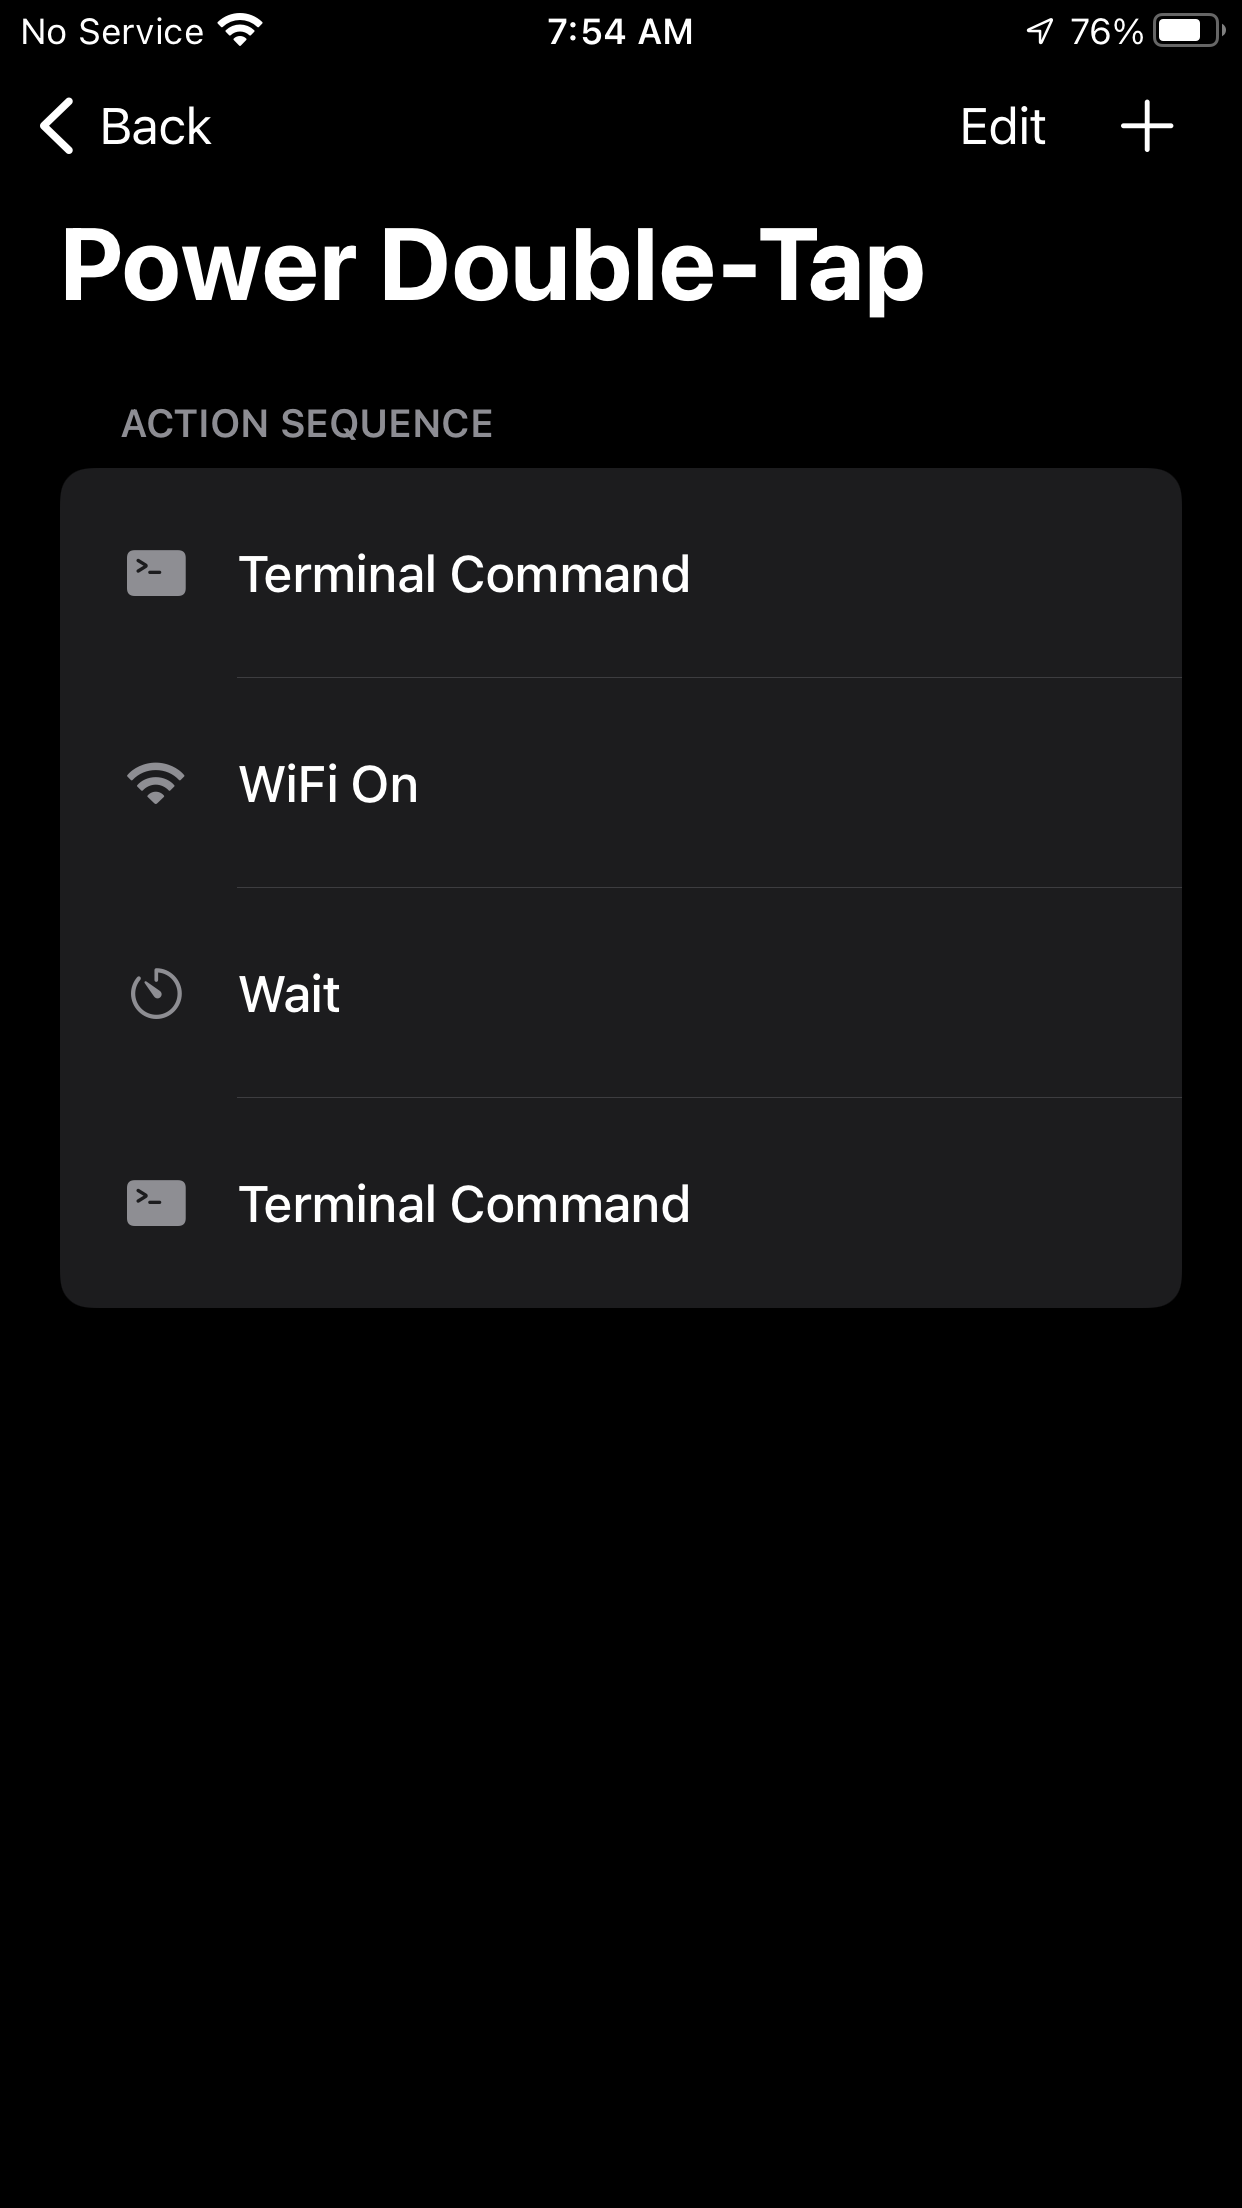
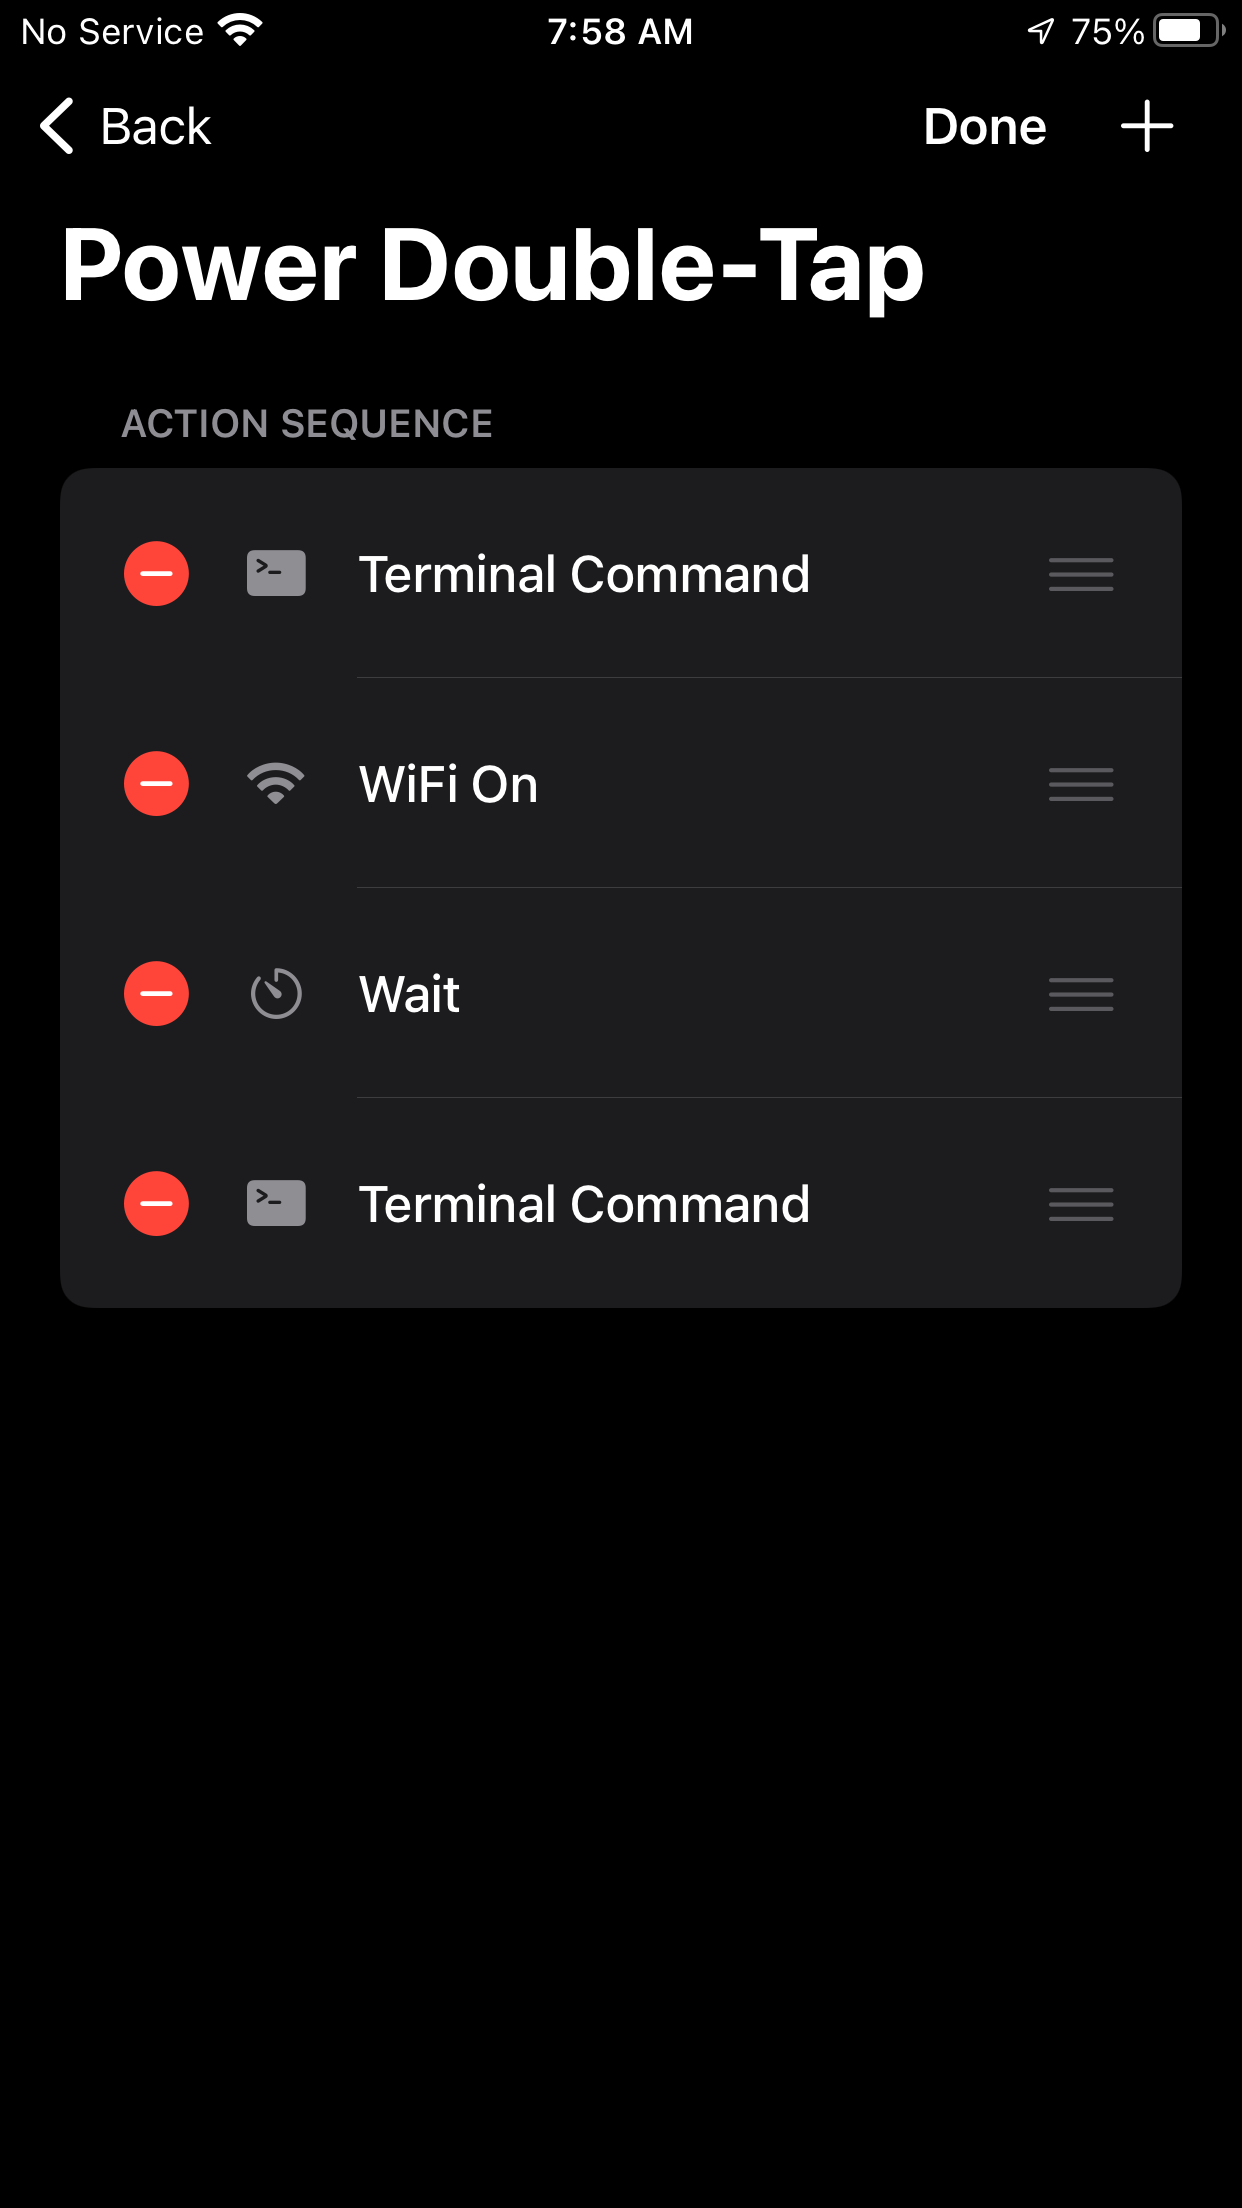
Images update

diff --git a/README.md b/README.md
@@ -11,14 +11,14 @@ Control your jailbroken iPhone from anywhere. RemoteCompanion triggers media, ap
 > - **Native Respring**: Dedicated "Respring Device" action added directly to the UI.
 
 <p align="center">
-  <img src="images/IMG_1331-1.PNG" width="250" alt="RemoteCompanion Interface" />
-  <img src="images/IMG_1332-2.PNG" width="250" alt="Settings View" />
-  <img src="images/IMG_1334.PNG" width="250" alt="Action Picker" />
+  <img src="images/IMG_1385.PNG" width="250" alt="RemoteCompanion Interface" />
+  <img src="images/IMG_1386.PNG" width="250" alt="Trigger Config" />
+  <img src="images/IMG_1388.PNG" width="250" alt="Search and Select" />
 </p>
 <p align="center">
-  <img src="images/IMG_1336.PNG" width="250" alt="Bluetooth Control" />
-  <img src="images/IMG_1338.PNG" width="250" alt="Haptic Settings" />
-  <img src="images/IMG_1333-2.PNG" width="250" alt="Trigger Config" />
+  <img src="images/IMG_1389.PNG" width="250" alt="Haptic Settings" />
+  <img src="images/IMG_1390.PNG" width="250" alt="Settings View" />
+  <img src="images/IMG_1387.PNG" width="250" alt="Action Picker" />
 </p>
 
 ## Features